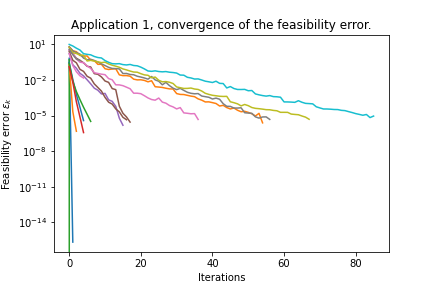
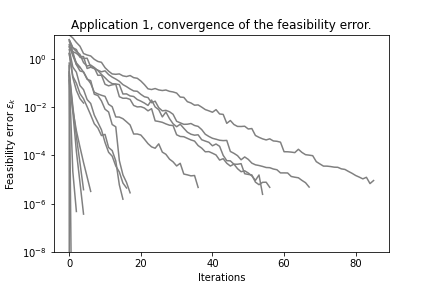
new plots

diff --git a/plots.py b/plots.py
@@ -30,8 +30,9 @@ def plot_convergence_app(app_idx,instance_liste):
         for line in file.readlines():
             array.append(float(line))
         
-        plt.plot(np.abs(np.array(array)))
+        plt.plot(np.abs(np.array(array[app_idx-1:])), color ='grey')
     #plt.xscale('log')
+    plt.ylim([1E-8,10])
     plt.yscale('log')
     plt.title("Application {0}, convergence of the feasibility error.".format(app_idx))
     plt.xlabel("Iterations")
